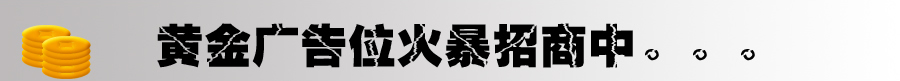
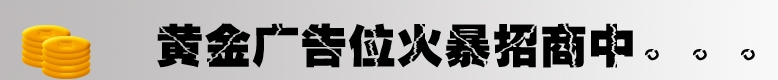
网站挂式处理

Changed region(s): [[0.1542, 0.275, 0.9871, 0.85], [0.0, 0.3, 0.1234, 1.0]]

diff --git a/pangu518/app/webroot/main_1024.php b/pangu518/app/webroot/main_1024.php
@@ -34,47 +34,8 @@
 <link href="css/style.css" rel="stylesheet" type="text/css">
 </head>
 <body>
-<?php
-	//require_once("index_gg_left.php");
-	require_once("index_gg_right.php");
-?>
-<table border=0 cellpadding=0 cellspacing=0 width=778 align=center>
-  <tr>
-    <td><object classid="clsid:D27CDB6E-AE6D-11cf-96B8-444553540000" codebase="http://download.macromedia.com/pub/shockwave/cabs/flash/swflash.cab#version=7,0,19,0" width="778" height="264">
-      <param name="movie" value="images/top.swf">
-      <param name="quality" value="high">
-      <embed src="images/top.swf" quality="high" pluginspage="http://www.macromedia.com/go/getflashplayer" type="application/x-shockwave-flash" width="778" height="264"></embed>
-    </object></td>
-  </tr>
-</table>
-<table border=0 cellpadding=0 cellspacing=0 width=778 align=center background="images/menu_bg.jpg" height=41>
-  <tr>
-    <td><table border=0 cellpadding=0 cellspacing=0 width=778>
-      <tr>
-        <td align=center><a href="main.php"><img src="images/menu_01.jpg" border="0"></a></td>
-        <td width=4><img src="images/menu_line.jpg"></td>
-        <td align=center><a href="enterprises.php"><img src="images/menu_02.jpg" border="0"></a></td>
-        <td width=4><img src="images/menu_line.jpg"></td>
-        <td align=center><a href="news.php"><img src="images/menu_03.jpg" border="0"></a></td>
-        <td width=4><img src="images/menu_line.jpg"></td>
-        <td align=center><a href="market.php"><img src="images/menu_04.jpg" border="0"></a></td>
-        <td width=4><img src="images/menu_line.jpg"></td>
-        <td align=center><a href="services.php"><img src="images/menu_05.jpg" border="0"></a></td>
-        <td width=4><img src="images/menu_line.jpg"></td>
-        <td align=center><a href="legal.php"><img src="images/menu_06.jpg" border="0"></a></td>
-        <td width=4><img src="images/menu_line.jpg"></td>
-        <td align=center><a href="members.php"><img src="images/menu_07.jpg" border="0"></a></td>
-        <td width=4><img src="images/menu_line.jpg"></td>
-        <td align=center><a href="merchants.php"><img src="images/menu_08.jpg" border="0"></a></td>
-        <td width=4><img src="images/menu_line.jpg"></td>
-        <td align=center><a href="downloads.php"><img src="images/menu_09.jpg" border="0"></a></td>
-        <td width=4><img src="images/menu_line.jpg"></td>
-        <td align=center><a href="#"><img src="images/menu_10.jpg" border="0"></a></td>
-      </tr>
-    </table></td>
-  </tr>
-</table>
-<table border=0 cellpadding=0 cellspacing=0 width=778 align=center height=37 style="border:1px solid #cccccc;margin-top:5px;">
+<?php	include("header.php");?>
+<table border=0 cellpadding=0 cellspacing=0 width=900 align=center height=37 style="border:1px solid #cccccc;margin-top:5px;">
 <tr>
   <td width=129><img src="images/index_title_01.jpg"></td>
   <td style="padding-left:10px;padding-right:10px;">
@@ -90,12 +51,12 @@
   </td>
 </tr>
 </table>
-<table border=0 cellpadding=0 cellspacing=0 width=778 align=center style="border-top:1px solid #cccccc;border-bottom:1px solid #cccccc;margin-top:2px;padding-top:1px;padding-bottom:1px">
+<table border=0 cellpadding=0 cellspacing=0 width=900 align=center style="border-top:1px solid #cccccc;border-bottom:1px solid #cccccc;margin-top:2px;padding-top:1px;padding-bottom:1px">
 <tr>
-  <td><img src="images/ad1.jpg" width="778"></td>
+  <td><img src="images/ad1.jpg"></td>
 </tr>
 </table>
-<table border=0 cellpadding=0 cellspacing=0 width=778 align=center style="margin-top:2px;">
+<table border=0 cellpadding=0 cellspacing=0 width=900 align=center style="margin-top:2px;">
 <tr>
   <td width=275 style="border:1px solid #cccccc;padding:1px" valign=>
   <table border=0 cellpadding=0 cellspacing=0 width=100%>
@@ -222,12 +183,12 @@
   </td>
 </tr>
 </table>
-<table border=0 cellpadding=0 cellspacing=0 width=778 align=center style="margin-top:4px">
+<table border=0 cellpadding=0 cellspacing=0 width=900 align=center style="margin-top:4px">
 <tr>
-  <td><img src="images/index_title_04.jpg" width="778"></td>
+  <td><img src="images/index_title_04.jpg"></td>
 </tr>
 </table>
-<table border=0 cellpadding=0 cellspacing=0 width=778 align=center height=170 style="border-bottom:1px solid #cccccc;margin-top:3px">
+<table border=0 cellpadding=0 cellspacing=0 width=900 align=center height=170 style="border-bottom:1px solid #cccccc;margin-top:3px">
 <tr>
   <td style="padding-left:5px;padding-right:5px">
     <table border=0 cellpadding=0 cellspacing="0" width=100%>
@@ -240,7 +201,7 @@
 		  <td width=173>
 		  <table border=0 cellpadding=0 cellspacing=0 width=100%>
 		  <tr>
-			<td style="border:1px solid #cccccc" align=center height=138><img src="images/test_01.jpg" width="153"></td>
+			<td style="border:1px solid #cccccc" align=center height=138><img src="images/test_01.jpg"></td>
 		  </tr>
 		   <tr>
 			<td style="border-left:1px solid #cccccc;border-right:1px solid #cccccc;border-bottom:1px solid #cccccc" align=center height=20>
@@ -258,7 +219,7 @@
   </td>
 </tr>
 </table>
-<table border=0 cellpadding=0 cellspacing=0 width=778 align=center style="margin-top:4px">
+<table border=0 cellpadding=0 cellspacing=0 width=900 align=center style="margin-top:4px">
 <tr>
   <td width=275 valign=top>
   <table border=0 cellpadding=0 cellspacing=0 width=100%>
@@ -375,7 +336,7 @@
   </td>
 </tr>
 </table>
-<table border=0 cellpadding=0 cellspacing=0 width=778 align=center style="margin-top:4px">
+<table border=0 cellpadding=0 cellspacing=0 width=900 align=center style="margin-top:4px">
 <tr>
   <td width=275 valign=top style="border:1px solid #cccccc;border-top:0px">
   <table border=0 cellpadding=0 cellspacing=0 width=100%>
@@ -457,17 +418,17 @@
 </tr>
 </table>
 
-<table border=0 cellpadding=0 cellspacing=0 width=778 align=center style="border-top:1px solid #cccccc;border-bottom:1px solid #cccccc;margin-top:4px">
+<table border=0 cellpadding=0 cellspacing=0 width=900 align=center style="border-top:1px solid #cccccc;border-bottom:1px solid #cccccc;margin-top:4px">
 <tr>
-  <td><img src="images/ad5.jpg" width="778"></td>
+  <td><img src="images/ad5.jpg"></td>
 </tr>
 </table>
-<table border=0 cellpadding=0 cellspacing=0 width=778 align=center style="margin-top:4px">
+<table border=0 cellpadding=0 cellspacing=0 width=900 align=center style="margin-top:4px">
 <tr>
-  <td><img src="images/index_title_10.jpg" width="778"></td>
+  <td><img src="images/index_title_10.jpg"></td>
 </tr>
 </table>
-<table border=0 cellpadding=0 cellspacing=0 width=778 align=center style="border:1px solid #cccccc">
+<table border=0 cellpadding=0 cellspacing=0 width=900 align=center style="border:1px solid #cccccc">
 <tr>
   <td width=30px style="border-right:1px solid #cccccc;padding:5px" align=center>
   <a href="#">申<br>请<br>友<br>情<br>链<br>接</a>
@@ -475,43 +436,28 @@
   <td style="padding:5px" valign=top>
   <table border=0 cellpadding=0 cellspacing=0 width=100%>
   <tr>
-    <td align=center><img src="images/test_02.jpg" width="120" style="border:1px solid #cccccc"></td>
-	<td align=center><img src="images/test_03.jpg" width="120" style="border:1px solid #cccccc"></td>
-	<td align=center><img src="images/test_03.jpg" width="120" style="border:1px solid #cccccc"></td>
-	<td align=center><img src="images/test_03.jpg" width="120" style="border:1px solid #cccccc"></td>
-	<td align=center><img src="images/test_03.jpg" width="120" style="border:1px solid #cccccc"></td>
-	<td align=center><img src="images/test_03.jpg" width="120" style="border:1px solid #cccccc"></td>
+    <td align=center><img src="images/test_02.jpg" style="border:1px solid #cccccc"></td>
+	<td align=center><img src="images/test_03.jpg" style="border:1px solid #cccccc"></td>
+	<td align=center><img src="images/test_03.jpg" style="border:1px solid #cccccc"></td>
+	<td align=center><img src="images/test_03.jpg" style="border:1px solid #cccccc"></td>
+	<td align=center><img src="images/test_03.jpg" style="border:1px solid #cccccc"></td>
+	<td align=center><img src="images/test_03.jpg" style="border:1px solid #cccccc"></td>
   </tr>
   <tr>
     <td height=10></td>
   </tr>
   <tr>
-    <td align=center><img src="images/test_02.jpg" width="120" style="border:1px solid #cccccc"></td>
-	<td align=center><img src="images/test_03.jpg" width="120" style="border:1px solid #cccccc"></td>
-	<td align=center><img src="images/test_03.jpg" width="120" style="border:1px solid #cccccc"></td>
-	<td align=center><img src="images/test_03.jpg" width="120" style="border:1px solid #cccccc"></td>
-	<td align=center><img src="images/test_03.jpg" width="120" style="border:1px solid #cccccc"></td>
-	<td align=center><img src="images/test_03.jpg" width="120" style="border:1px solid #cccccc"></td>
+    <td align=center><img src="images/test_02.jpg" style="border:1px solid #cccccc"></td>
+	<td align=center><img src="images/test_03.jpg" style="border:1px solid #cccccc"></td>
+	<td align=center><img src="images/test_03.jpg" style="border:1px solid #cccccc"></td>
+	<td align=center><img src="images/test_03.jpg" style="border:1px solid #cccccc"></td>
+	<td align=center><img src="images/test_03.jpg" style="border:1px solid #cccccc"></td>
+	<td align=center><img src="images/test_03.jpg" style="border:1px solid #cccccc"></td>
   </tr>
   </table>
   </td>
 </tr>
 </table>
-<table border=0 cellpadding=0 cellspacing=0 width=778 align=center style="margin:4px">
-  <tr>
-    <td height=4 bgcolor="#ff0000"></td>
-  </tr>
-  <tr>
-    <td height=33 bgcolor="#6A6869" align=center style="color:#ffffff"><a href="#" class="menubottom">公司介绍</a> | <a href="#" class="menubottom">盘古招聘</a> | <a href="#" class="menubottom">常见问题</a> | <a href="#" class="menubottom">设计资源</a> | <a href="#" class="menubottom">合作伙伴</a> |<a href="#" class="menubottom"> 在线订单</a> | <a href="#" class="menubottom">联系方式</a> </td>
-  </tr>
-</table>
-<table border=0 cellpadding=0 cellspacing=0 width=778 align=center>
-  <tr>
-    <td style="padding-top:10px;padding-bottom:10px" align=center> 四川盘古经济咨询有限责任公司 版权所有 &copy; Copyright 2007 <a href="http:/www.pangu518.com">www.pangu518.com</a><br>
-      公司总部地址：四川省成都市猛追湾街125号4楼　公司总部电话：028-XXXXXXXXX<br>
-      川ICP备*****号　工商经营许可证5101002016468号<br>
-    </td>
-  </tr>
-</table>
+<?php	include("footer.php");?>
 </body>
 </html>

diff --git a/pangu518/app/webroot/index_gg_right.php b/pangu518/app/webroot/index_gg_right.php
@@ -54,9 +54,9 @@ function JSFX_FloatTopDiv()
 
 {
 
-       var startX =860,
+       var startX =892,
 
-       startY = 300;
+       startY = 600;
 
        var ns = (navigator.appName.indexOf("Netscape") != -1);
 

diff --git a/pangu518/app/webroot/index_gg_left.php b/pangu518/app/webroot/index_gg_left.php
@@ -54,9 +54,9 @@ function JSFX_FloatTopDiv()
 
 {
 
-       var startX =860,
+       var startX =2,
 
-       startY = 300;
+       startY = 600;
 
        var ns = (navigator.appName.indexOf("Netscape") != -1);
 
